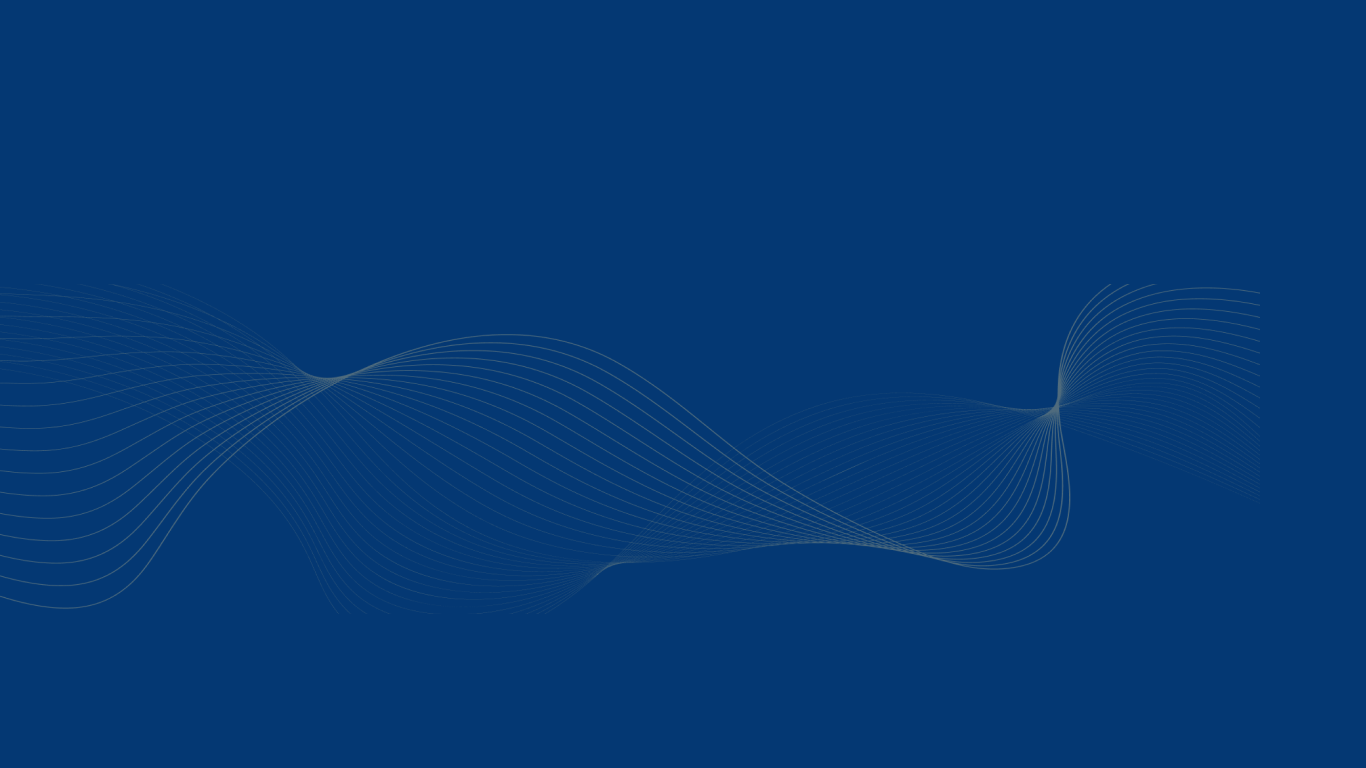
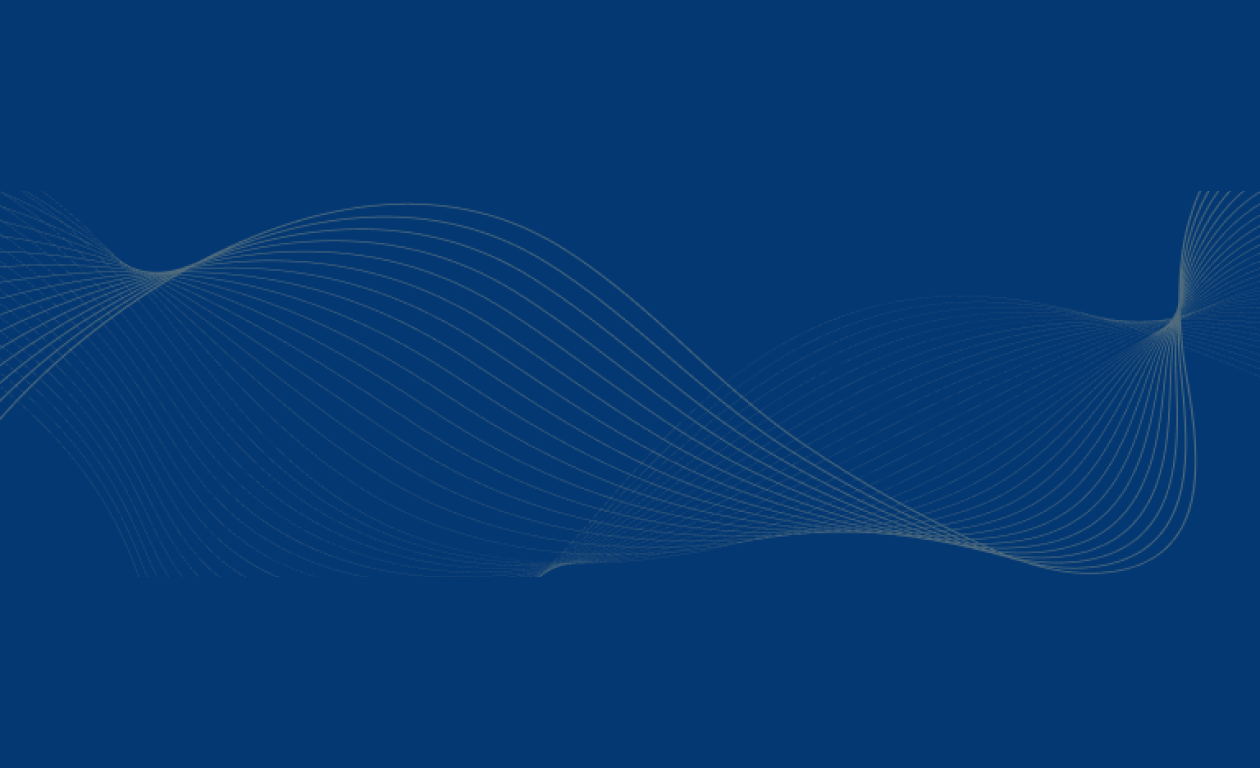
Tablet Responsive

diff --git a/style.css b/style.css
@@ -2,7 +2,7 @@
 {   
     background-image: url(img/fundo2.png);
     display: flex;
-    width: 100%;
+    width: 1260px/768px;
 }
 .cabeca
 {
@@ -119,6 +119,11 @@
         display: inline-block;
         margin-left: 400px;
     }
-
+    .fundo
+    {
+    background-image: url(img/fundo3.png);
+    display: flex;
+    width: 100%;
+    }
     
 }
